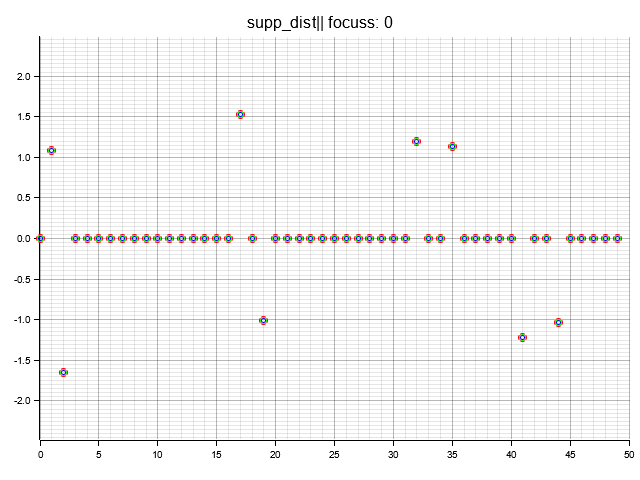
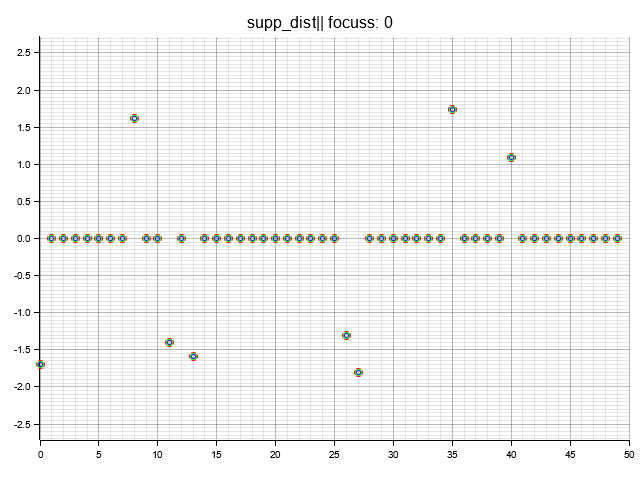
add rvm

Changed region(s): [[0.0312, 0.0625, 1.0, 0.9375]]

diff --git a/src/sparse_alg/bayesian/tests.rs b/src/sparse_alg/bayesian/tests.rs
@@ -1,0 +1,96 @@
+pub use crate::prelude::*;
+
+#[test]
+fn mp_1sample_test() {
+    std::env::set_var("RUST_BACKTRACE", "1");
+
+    let mut rng = rand::thread_rng();
+    let input_data: Array1<f64> =
+        rand_pulses_signal(&mut rng, 50, 10, 1.0, 2.0).expect("can't generate signal");
+    let matrix: Array2<f64> = ArrayBase::from_shape_fn((30, 50), |_| rng.gen_range(-1.0..1.0));
+    let matrix = normalize_columns(&matrix).unwrap();
+    let output_data = matrix.dot(&input_data);
+
+    let threshold = 1e-2;
+    let iter_num = 10000;
+    let supp_err_range = 1e-8;
+    let threshold_alg = ThresholdAlg::new(15);
+    let threshold_result = threshold_alg.solve(&matrix, &output_data).unwrap();
+    let wmp = Wmp::new(threshold, iter_num, 0.5).unwrap();
+    let wmp_result = wmp.solve(&matrix, &output_data).unwrap();
+    let mp = Mp::new(threshold, iter_num);
+    let mp_result = mp.solve(&matrix, &output_data).unwrap();
+    let omp = Omp::new(threshold);
+    let omp_result = omp.solve(&matrix, &output_data).unwrap();
+
+    println!(
+        "supp_dist|| threshold: {}, wmp: {}, mp: {}, omp: {}",
+        support_distance(&input_data, &threshold_result, supp_err_range).unwrap(),
+        support_distance(&input_data, &wmp_result, supp_err_range).unwrap(),
+        support_distance(&input_data, &mp_result, supp_err_range).unwrap(),
+        support_distance(&input_data, &omp_result, supp_err_range).unwrap(),
+    );
+    println!(
+        "l2_relative_err|| threshold: {}, wmp: {}, mp: {}, omp: {}",
+        l2_relative_err(&input_data, &threshold_result)
+            .unwrap()
+            .powf(2.0),
+        l2_relative_err(&input_data, &wmp_result).unwrap().powf(2.0),
+        l2_relative_err(&input_data, &mp_result).unwrap().powf(2.0),
+        l2_relative_err(&input_data, &omp_result).unwrap().powf(2.0),
+    );
+
+    //Draw ista_result, fista_result, and input_data
+    //描画先をBackendとして指定。ここでは画像に出力するためBitMapBackend
+    let root = BitMapBackend::new("results/mp_one_sample.png", (640, 480)).into_drawing_area();
+    //背景を白に
+    root.fill(&WHITE).unwrap();
+
+    let max = input_data.norm_max();
+
+    //グラフの軸設定など
+    let mut chart = ChartBuilder::on(&root)
+        .caption("mp_one_sample", ("sans-serif", 50).into_font())
+        .margin(10) //上下左右の余白
+        .x_label_area_size(30) //x軸ラベル部分の余白
+        .y_label_area_size(30) //y軸ラベル部分の余白
+        .build_cartesian_2d(
+            0..input_data.shape()[0], //x軸の設定
+            -1.5 * max..1.5 * max,    //y軸の設定
+        )
+        .unwrap();
+
+    //x軸y軸、グリッド線など描画
+    chart.configure_mesh().draw().unwrap();
+    //データの描画。(x, y)のイテレータとしてデータ点を渡す。
+    let point_series = PointSeries::<_, _, Circle<_, _>, _>::new(
+        input_data.iter().enumerate().map(|(i, x)| (i, *x)),
+        4,
+        &RED,
+    );
+    chart.draw_series(point_series).unwrap();
+    let point_series = PointSeries::<_, _, Circle<_, _>, _>::new(
+        mp_result.iter().enumerate().map(|(i, x)| (i, *x)),
+        3,
+        &BLUE,
+    );
+    chart.draw_series(point_series).unwrap();
+    let point_series = PointSeries::<_, _, Circle<_, _>, _>::new(
+        omp_result.iter().enumerate().map(|(i, x)| (i, *x)),
+        2,
+        &GREEN,
+    );
+    chart.draw_series(point_series).unwrap();
+    let point_series = PointSeries::<_, _, Circle<_, _>, _>::new(
+        wmp_result.iter().enumerate().map(|(i, x)| (i, *x)),
+        2,
+        &BLACK,
+    );
+    chart.draw_series(point_series).unwrap();
+    let point_series = PointSeries::<_, _, Circle<_, _>, _>::new(
+        threshold_result.iter().enumerate().map(|(i, x)| (i, *x)),
+        7,
+        &YELLOW,
+    );
+    chart.draw_series(point_series).unwrap();
+}

diff --git a/src/sparse_alg/bayesian/rvm.rs b/src/sparse_alg/bayesian/rvm.rs
@@ -1,0 +1,70 @@
+use super::super::SparseAlg;
+use crate::prelude::*;
+
+pub struct Rvm {
+    threshold: f64,
+    iter_num: usize,
+}
+
+impl Rvm {
+    #[allow(dead_code)]
+    pub fn new(threshold: f64, iter_num: usize) -> Self {
+        Self {
+            threshold,
+            iter_num,
+        }
+    }
+    #[allow(dead_code)]
+    pub fn set(&mut self, threshold: f64, iter_num: usize) {
+        self.threshold = threshold;
+        self.iter_num = iter_num;
+    }
+}
+
+impl SparseAlg for Rvm {
+    fn solve(&self, mat: &Array2<f64>, y: &Array1<f64>) -> Result<Array1<f64>> {
+        match is_underestimated_sys(mat, y) {
+            Err(msg) => return Err(msg),
+            Ok(_) => (),
+        }
+
+        //initialization
+        let mut a: Array1<f64> = ArrayBase::ones(mat.shape()[1] + 1);
+        let mut prev_a;
+        let mut temp = a[0] * mat.t().dot(mat);
+        for i in 0..mat.shape()[1] {
+            temp[[i, i]] += a[i+1];
+        }
+        let mut cov = Inverse::inv(&temp).unwrap();
+        let mut mu = a[0] * cov.dot(&mat.t()).dot(y);
+        let mut gamma: Array1<f64> = ArrayBase::from_shape_fn(
+            mat.shape()[1],
+            |i| 1. - a[i+1] * cov[[i, i]],
+        );
+
+        //estimate hyperparameters
+        for _ in 0..self.iter_num {
+            prev_a = a.clone();
+            a[0] = (mat.shape()[0] as f64 - gamma.sum()) / (y - mat.dot(&mu)).norm_l2().powf(2.);
+            for i in 0..mat.shape()[1] {
+                a[i+1] = gamma[i] / (mu[i]*mu[i]);
+            }
+            temp = a[0] * mat.t().dot(mat);
+            for i in 0..mat.shape()[1] {
+                temp[[i, i]] += a[i+1];
+            }
+            cov = Inverse::inv(&temp).unwrap();
+            mu = a[0] * cov.dot(&mat.t()).dot(y);
+            gamma = ArrayBase::from_shape_fn(
+                mat.shape()[1],
+                |i| 1. - a[i+1] * cov[[i, i]],
+            );
+
+            if (&a - &prev_a).norm_l2() < self.threshold {
+                break;
+            }
+        }
+
+        Ok(mu)
+    }
+}

diff --git a/src/sparse_alg/mod.rs b/src/sparse_alg/mod.rs
@@ -3,11 +3,13 @@
 //! 'sparse_alg' is a collection of algorithms for calculate sparse solutions
 mod l1_relaxzation;
 mod matching_pursuit;
+mod bayesian;
 
 use crate::prelude::*;
 
 pub use l1_relaxzation::{by_lasso::SparseAlgLasso, focuss::L1Focuss, L1Relaxzation};
 pub use matching_pursuit::{mp::Mp, omp::Omp, threshold_alg::ThresholdAlg, wmp::Wmp};
+pub use bayesian::rvm::Rvm;
 
 pub trait SparseAlg {
     fn solve(&self, mat: &Array2<f64>, y: &Array1<f64>) -> Result<Array1<f64>>;

diff --git a/src/sparse_alg/bayesian/mod.rs b/src/sparse_alg/bayesian/mod.rs
@@ -1,0 +1,5 @@
+//! Bayesian Compressive Sensing
+//! 
+pub mod rvm;
+#[cfg(test)]
+mod tests;
